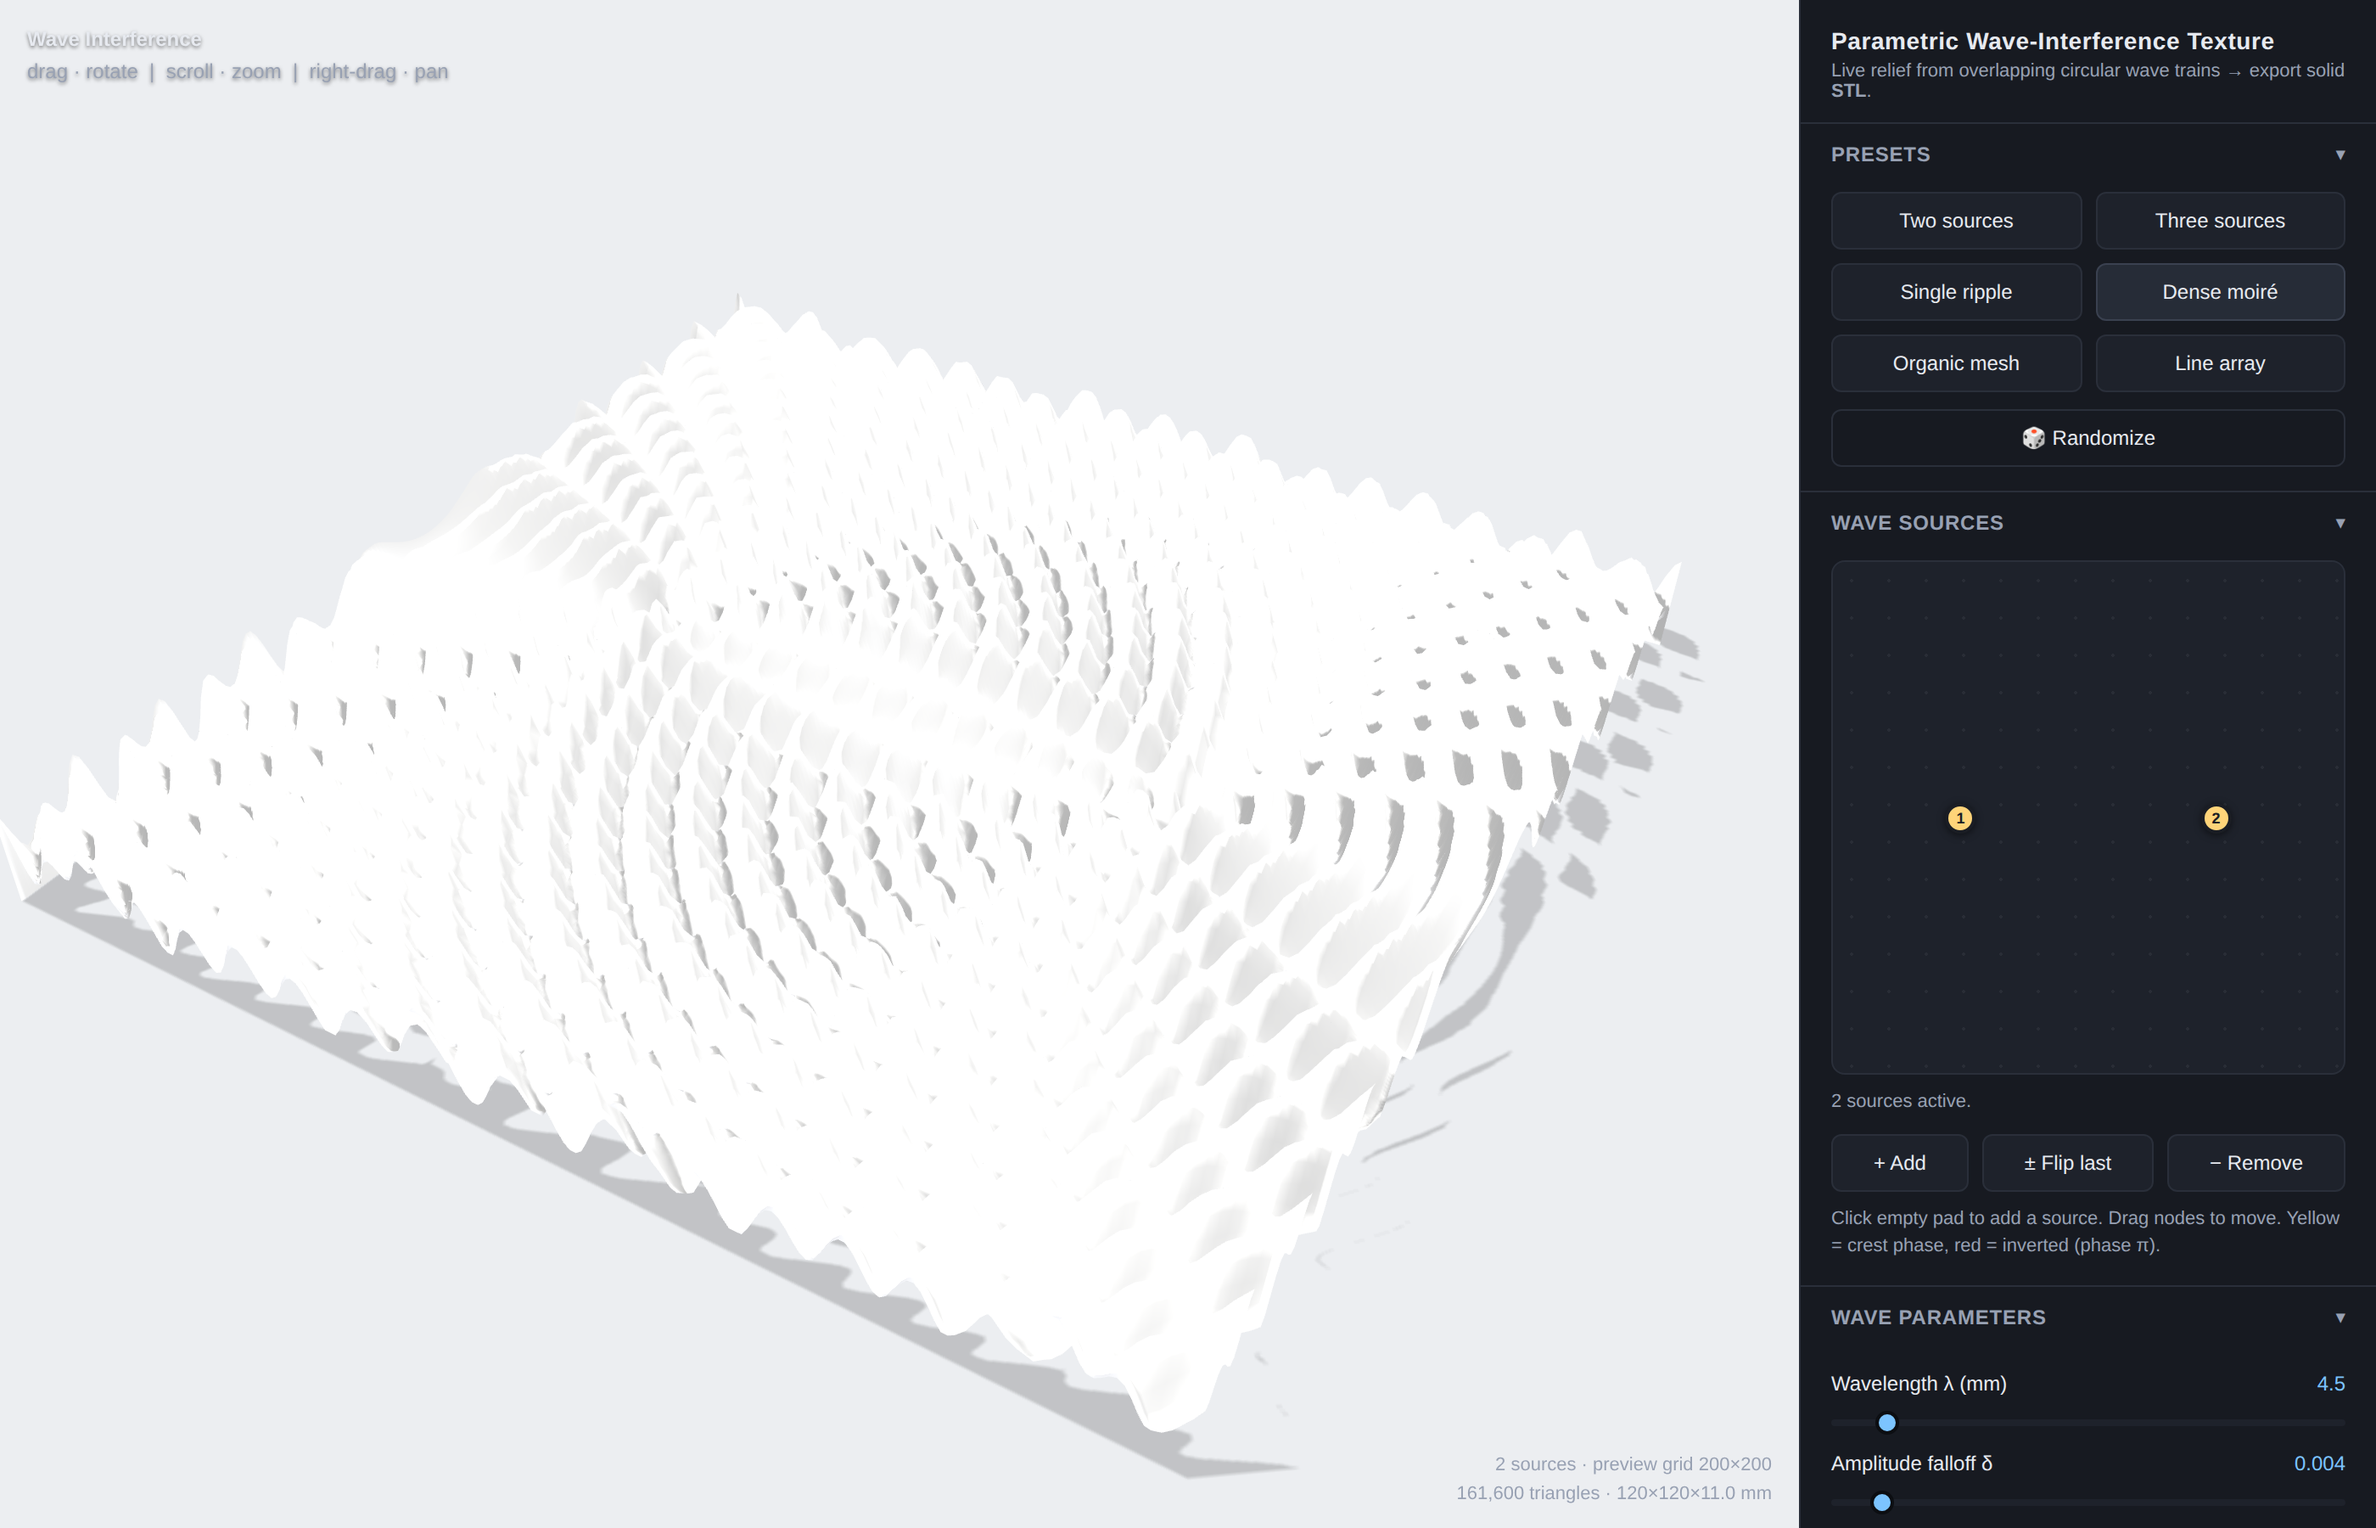
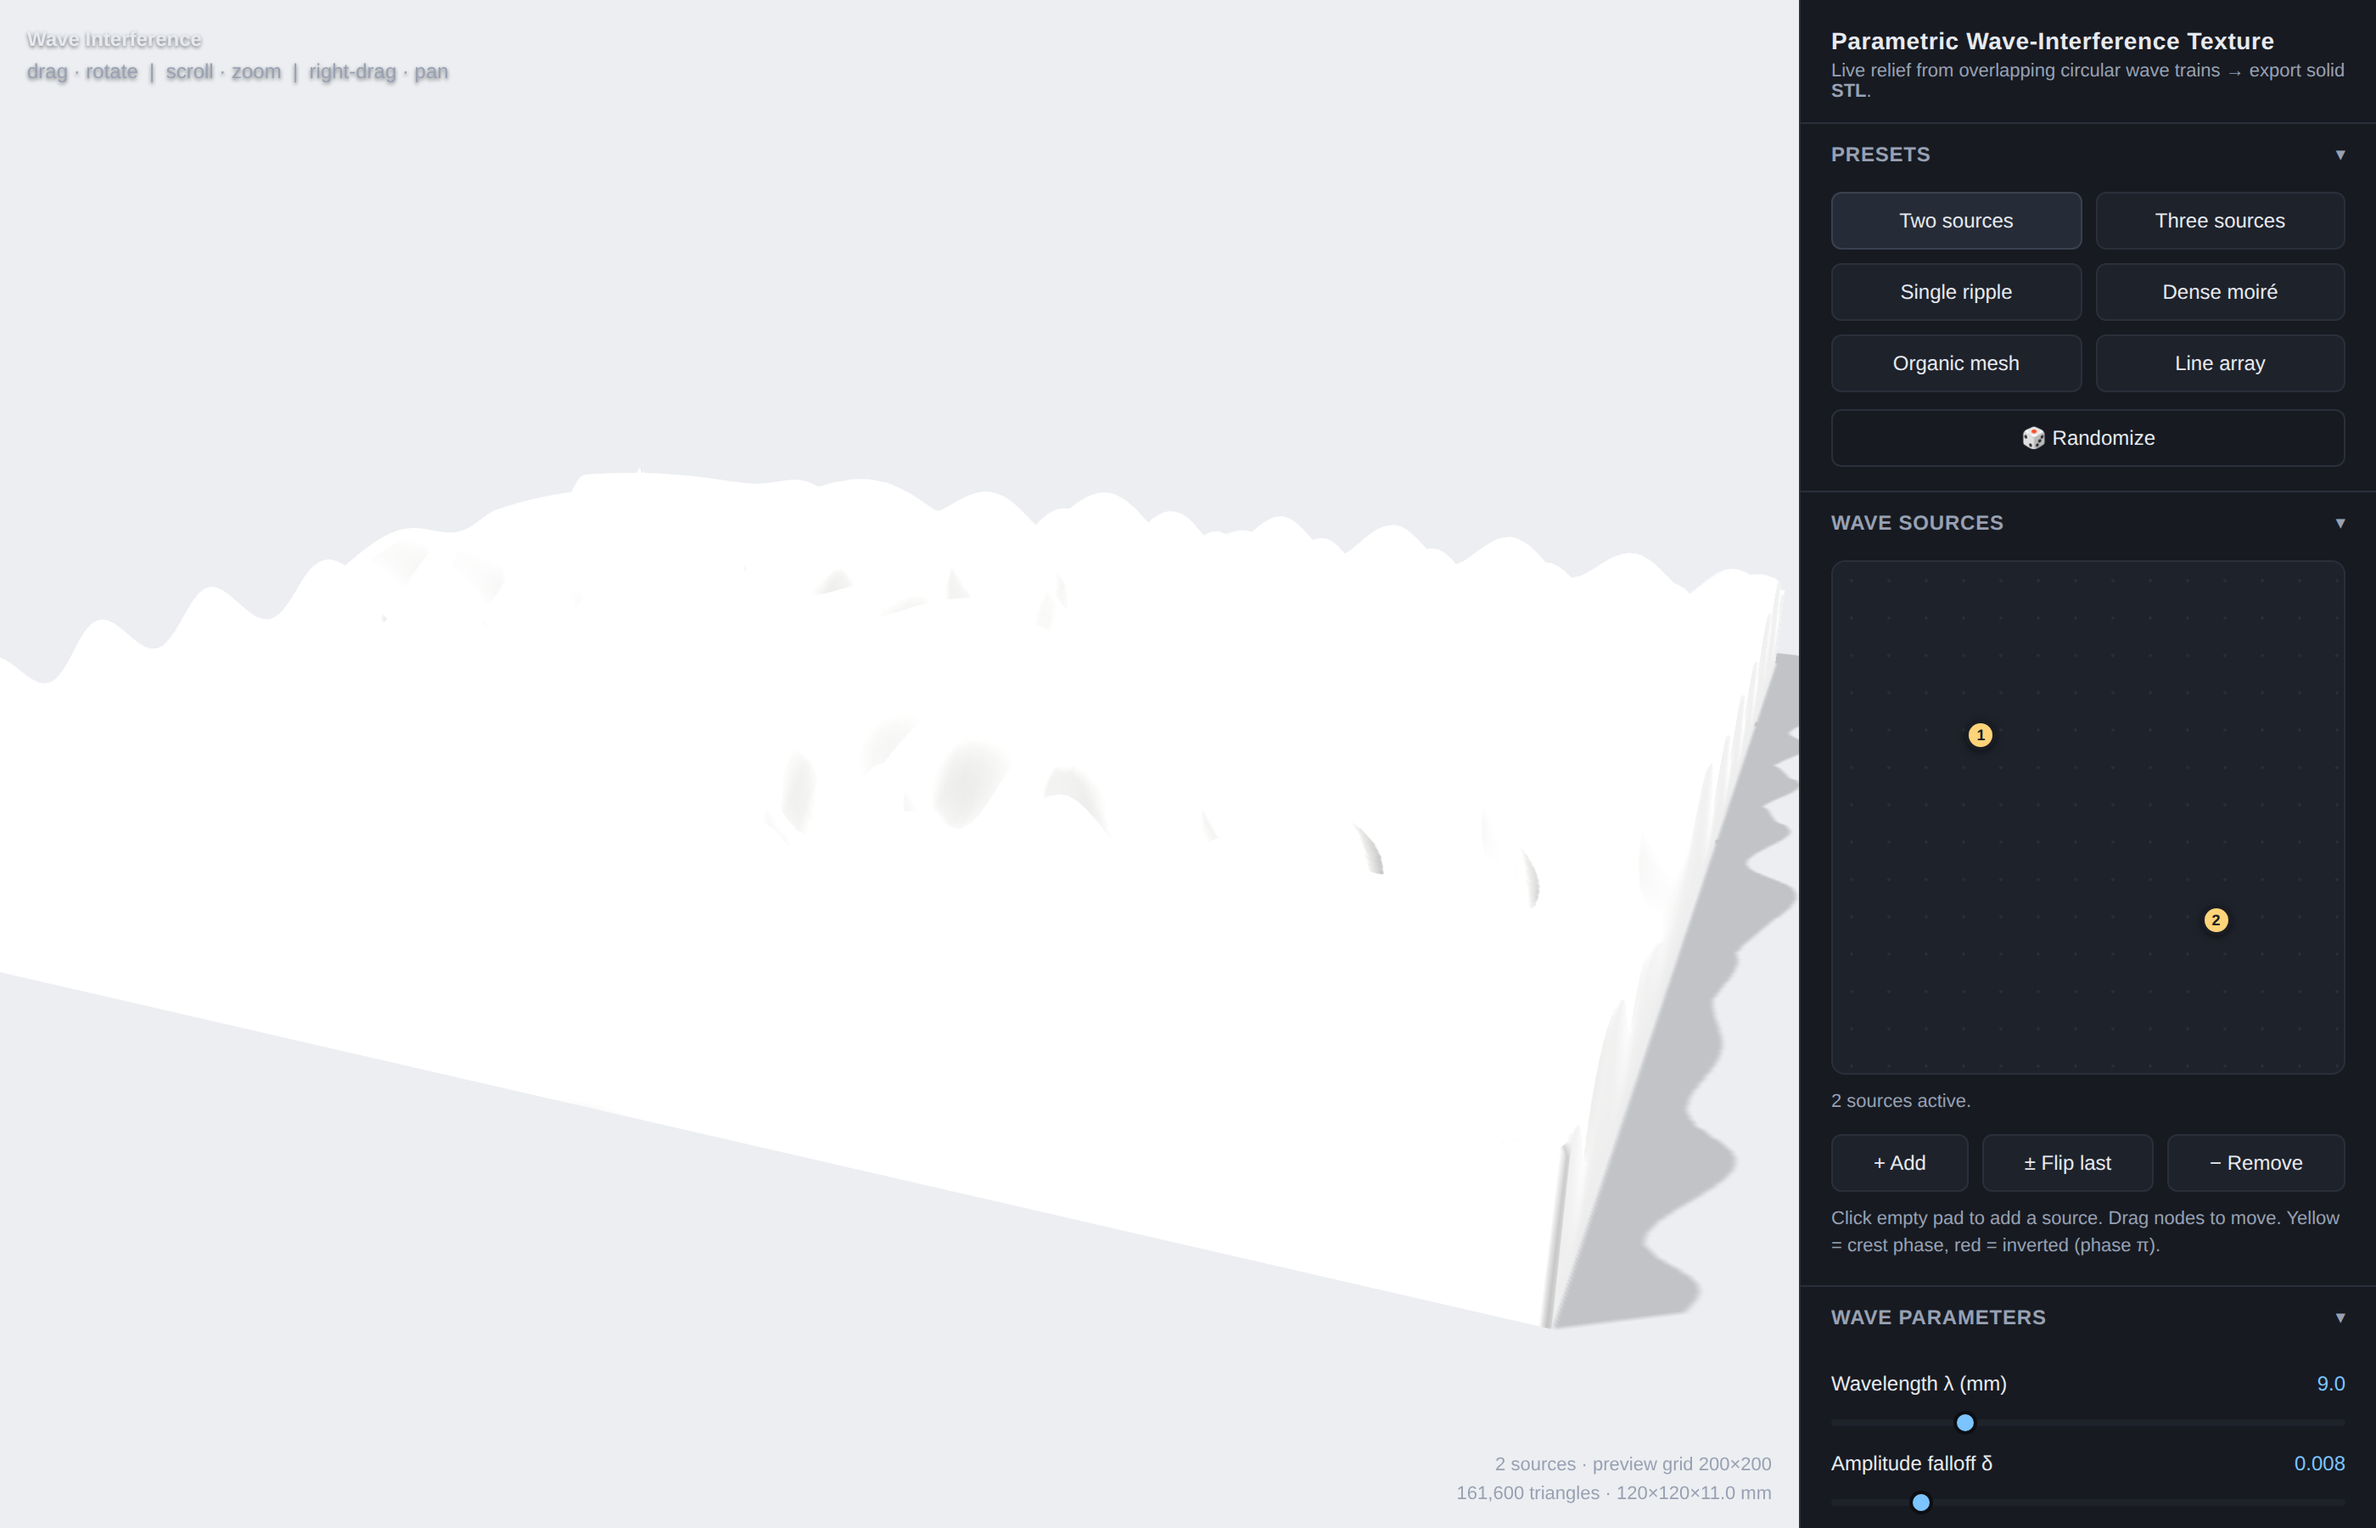
Guarantee a watertight solid: orient every face outward
The exported STL was watertight but had 320 inconsistently-wound wall
triangles (walls faced inward while the caps faced outward), so slicers
and mesh tools read the model as an open surface rather than a solid.

Emit every face through an outward-oriented helper: each face of the
slab has a known outward direction (top +Y, bottom -Y, and each planar
side wall its exact axis), so orienting to it yields a single
consistently-wound, watertight manifold. Verified V-E+F=2 (genus-0
closed solid) with zero boundary, non-manifold, or mis-wound edges.
Dropped the redundant 'solid base' toggle since output is always solid.

Claude-Session: https://claude.ai/code/session_01SkY8KLr7AYV84MxpCsb4Ln

diff --git a/index.html b/index.html
@@ -199,10 +199,10 @@
           <label>Export resolution (grid)<span class="val" id="expResVal"></span></label>
           <input type="range" id="expRes" min="80" max="600" step="20" />
         </div>
-        <label class="checkbox"><input type="checkbox" id="expSolid" checked /> Solid base (watertight, printable)</label>
         <div class="btnrow">
-          <button class="primary" id="btnExport">⬇ Export STL</button>
+          <button class="primary" id="btnExport">⬇ Export solid STL</button>
         </div>
+        <p class="hint">Output is a watertight manifold solid (top relief + side walls + flat bottom) — a printable volume, not a surface.</p>
         <p class="hint" id="expInfo"></p>
       </div>
     </div>
@@ -254,7 +254,6 @@ const P = {
   wireframe: false,
   // export
   exportRes: 300,
-  exportSolid: true,
 };
 
 // sources in normalized pad coords [-1,1]; amp>0 crest, amp<0 inverted; each can override wavelength scale
@@ -421,7 +420,7 @@ function rebuildMesh() {
   const seg = P.preview;
   const { grid, n } = buildHeightGrid(seg);
 
-  const geom = buildSurfaceGeometry(grid, n, seg, false); // display: open shell w/ skirt
+  const geom = buildSurfaceGeometry(grid, n, seg); // solid slab (top + walls + bottom)
   const mat = MATERIALS[P.material]();
   mat.wireframe = P.wireframe;
   mesh = new THREE.Mesh(geom, mat);
@@ -444,82 +443,82 @@ function rebuildMesh() {
   If solid=false (preview), produce top + walls but a light bottom too (cheap) — we
   actually reuse the solid builder for both to keep visuals and export identical.
 */
-function buildSurfaceGeometry(grid, n, seg, wantBottomExport) {
+function buildSurfaceGeometry(grid, n, seg) {
   const sx = P.sizeX, sz = P.sizeY;
   const H = P.height, B = P.base;
 
-  const topCount = n * n;
   const positions = [];
   const indices = [];
 
-  // --- top vertices ---
-  // index(i,j) = j*n + i  for top
+  // Emit a triangle (a,b,c) oriented so its geometric normal points along the
+  // known outward direction (ox,oy,oz). Every face of this closed slab has a
+  // well-defined outward side, so orienting each one this way yields a single
+  // consistently-wound, watertight manifold — a true solid, not a shell.
+  function addTri(a, b, c, ox, oy, oz) {
+    const ax = positions[a*3], ay = positions[a*3+1], az = positions[a*3+2];
+    const bx = positions[b*3], by = positions[b*3+1], bz = positions[b*3+2];
+    const cx = positions[c*3], cy = positions[c*3+1], cz = positions[c*3+2];
+    const e1x = bx-ax, e1y = by-ay, e1z = bz-az;
+    const e2x = cx-ax, e2y = cy-ay, e2z = cz-az;
+    const nx = e1y*e2z - e1z*e2y;
+    const ny = e1z*e2x - e1x*e2z;
+    const nz = e1x*e2y - e1y*e2x;
+    if (nx*ox + ny*oy + nz*oz >= 0) indices.push(a, b, c);
+    else indices.push(a, c, b);
+  }
+
+  // --- top vertices --- index(i,j) = j*n + i
   for (let j = 0; j < n; j++) {
     const z = (j / seg - 0.5) * sz;
     for (let i = 0; i < n; i++) {
       const x = (i / seg - 0.5) * sx;
-      const y = B + grid[j * n + i] * H;
-      positions.push(x, y, z);
+      positions.push(x, B + grid[j * n + i] * H, z);
     }
   }
-  // top faces
-  for (let j = 0; j < seg; j++) {
-    for (let i = 0; i < seg; i++) {
-      const a = j * n + i;
-      const b = j * n + i + 1;
-      const c = (j + 1) * n + i;
-      const d = (j + 1) * n + i + 1;
-      indices.push(a, c, b,  b, c, d);
-    }
-  }
-
   // --- bottom vertices (flat plane at y=0) ---
   const bottomStart = positions.length / 3;
   for (let j = 0; j < n; j++) {
     const z = (j / seg - 0.5) * sz;
     for (let i = 0; i < n; i++) {
-      const x = (i / seg - 0.5) * sx;
-      positions.push(x, 0, z);
-    }
-  }
-  // bottom faces (downward winding)
-  for (let j = 0; j < seg; j++) {
-    for (let i = 0; i < seg; i++) {
-      const a = bottomStart + j * n + i;
-      const b = bottomStart + j * n + i + 1;
-      const c = bottomStart + (j + 1) * n + i;
-      const d = bottomStart + (j + 1) * n + i + 1;
-      indices.push(a, b, c,  b, d, c);
+      positions.push((i / seg - 0.5) * sx, 0, z);
     }
   }
 
-  // --- side walls stitching top edge to bottom edge ---
   const topIdx = (i, j) => j * n + i;
   const botIdx = (i, j) => bottomStart + j * n + i;
 
-  // edge j=0 (front)
-  for (let i = 0; i < seg; i++) {
-    const t0 = topIdx(i, 0), t1 = topIdx(i + 1, 0);
-    const b0 = botIdx(i, 0), b1 = botIdx(i + 1, 0);
-    indices.push(t0, b0, t1,  t1, b0, b1);
-  }
-  // edge j=seg (back)
-  for (let i = 0; i < seg; i++) {
-    const t0 = topIdx(i, seg), t1 = topIdx(i + 1, seg);
-    const b0 = botIdx(i, seg), b1 = botIdx(i + 1, seg);
-    indices.push(t0, t1, b0,  t1, b1, b0);
-  }
-  // edge i=0 (left)
+  // top surface (outward +Y)
   for (let j = 0; j < seg; j++) {
-    const t0 = topIdx(0, j), t1 = topIdx(0, j + 1);
-    const b0 = botIdx(0, j), b1 = botIdx(0, j + 1);
-    indices.push(t0, t1, b0,  t1, b1, b0);
+    for (let i = 0; i < seg; i++) {
+      const a = topIdx(i, j), b = topIdx(i+1, j), c = topIdx(i, j+1), d = topIdx(i+1, j+1);
+      addTri(a, c, b, 0, 1, 0);
+      addTri(b, c, d, 0, 1, 0);
+    }
   }
-  // edge i=seg (right)
+  // bottom surface (outward -Y)
   for (let j = 0; j < seg; j++) {
-    const t0 = topIdx(seg, j), t1 = topIdx(seg, j + 1);
-    const b0 = botIdx(seg, j), b1 = botIdx(seg, j + 1);
-    indices.push(t0, b0, t1,  t1, b0, b1);
+    for (let i = 0; i < seg; i++) {
+      const a = botIdx(i, j), b = botIdx(i+1, j), c = botIdx(i, j+1), d = botIdx(i+1, j+1);
+      addTri(a, b, c, 0, -1, 0);
+      addTri(b, d, c, 0, -1, 0);
+    }
+  }
+  // side walls — each planar, outward is the exact face axis
+  for (let i = 0; i < seg; i++) {
+    // front  (z = min, outward -Z)
+    addTri(topIdx(i,0), botIdx(i,0), topIdx(i+1,0), 0, 0, -1);
+    addTri(topIdx(i+1,0), botIdx(i,0), botIdx(i+1,0), 0, 0, -1);
+    // back   (z = max, outward +Z)
+    addTri(topIdx(i,seg), botIdx(i,seg), topIdx(i+1,seg), 0, 0, 1);
+    addTri(topIdx(i+1,seg), botIdx(i,seg), botIdx(i+1,seg), 0, 0, 1);
+  }
+  for (let j = 0; j < seg; j++) {
+    // left   (x = min, outward -X)
+    addTri(topIdx(0,j), botIdx(0,j), topIdx(0,j+1), -1, 0, 0);
+    addTri(topIdx(0,j+1), botIdx(0,j), botIdx(0,j+1), -1, 0, 0);
+    // right  (x = max, outward +X)
+    addTri(topIdx(seg,j), botIdx(seg,j), topIdx(seg,j+1), 1, 0, 0);
+    addTri(topIdx(seg,j+1), botIdx(seg,j), botIdx(seg,j+1), 1, 0, 0);
   }
 
   const geom = new THREE.BufferGeometry();
@@ -546,7 +545,7 @@ function updateStats(seg, geom) {
 function exportSTL() {
   const seg = P.exportRes;
   const { grid, n } = buildHeightGrid(seg);
-  const geom = buildSurfaceGeometry(grid, n, seg, true);
+  const geom = buildSurfaceGeometry(grid, n, seg);
 
   const pos = geom.getAttribute('position');
   const idx = geom.getIndex();
@@ -684,7 +683,6 @@ const showExpRes = () => {
 };
 expRes.addEventListener('input', () => { P.exportRes = parseInt(expRes.value); showExpRes(); });
 showExpRes();
-document.getElementById('expSolid').addEventListener('change', e => P.exportSolid = e.target.checked);
 document.getElementById('btnExport').addEventListener('click', exportSTL);
 
 /* =========================================================================
